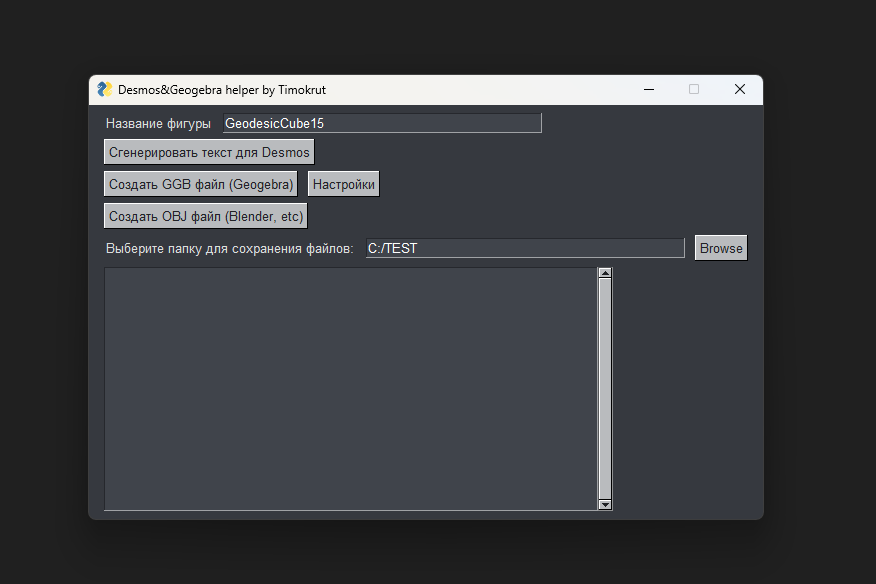
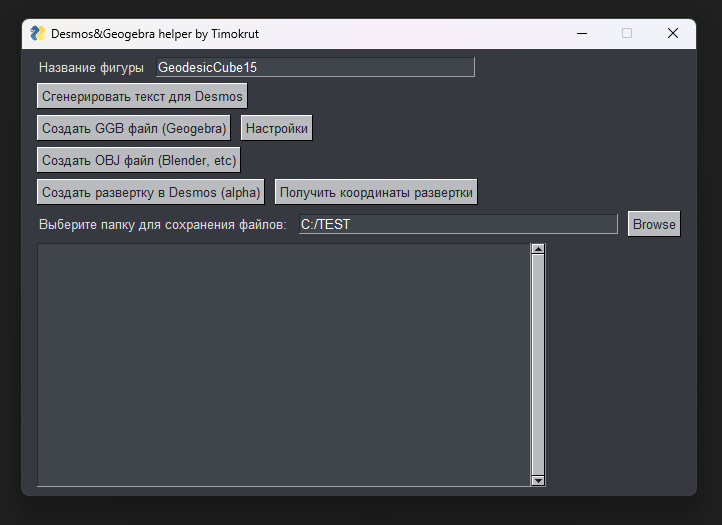
documentation updates

diff --git a/algo_instruction.md b/algo_instruction.md
@@ -1,22 +1,38 @@
-Алгоритм:
+# Алгоритм
+
 Алгоритм работает с гранями многогранника, разбитыми на треугольники. Треугольники описываются вершинами, из которых они состоят. Вершины первой грани многогранника запоминаются.
+
 Взяв за основу первый треугольник из первой грани, на плоскости строятся все остальные вершины. Сначала на плоскости откладывается первый треугольник: первая вершина в начале координат, вторая вершина лежит на оси Y, третья вершина получается решением системы уравнений двух окружностей.
+
 Все остальные вершины получаются через решение системы уравнений.
-![alt text](image.png)
+![alt text](readme_photo/image_copy.png)
+
 Система уравнений окружностей имеет два решения. Выбирается решение, которое прошло все проверки. В случае первой грани выбирается решение с отрицательным знаком
 
 Выбор следующей вершины определяется с помощью нахождения граней, которые отличаются от текущей на одну вершину. 
 На плоскости могут откладыватся несколько точек, которые при склейке образуют одну единственную точку. Чтобы не было отложено лишних точек, существует соответствие отложенной на плоскости точке с гранью, из которой она была отложена (т.е. с одной грани нельзя несколько раз отложить одну и ту же точку).
+
 Также проверяется наличие точки в списке точек (нет дубликатов).
+
 В случае, если система уравнений двух окружностей не имеет решений, функция вычисления решения вернет комплексное число. Они отметаются.
 Предполагается, что точки из первой грани не могут повторятся. Все такие повторения отметаются.
+
 Алгоритм продолжает откладывать точки, пока не пройдет все грани (разбитые на треугольники).
+
 Если нужно добавить точку, которая образуется из вершин, которые повторяются на плоскости, рассматриваются все комбинации повторяющихся точек, пока не найдется первая подходящая.
+
 Результатом алгоритма является списком точек на плоскости.
 
+# Функции
+
 Функция distance вычисляет расстояние между двумя точками.
+
 Функция count_solution решает систему уравнений двух окружностей на плоскости.
+
 Функция find_sim сравнивает две грани, и возвращает число совпадений.
+
 Функция point_max_comp находит похожие грани с исходной (отличаются на одну вершину) и возвращает два списка: в первом списке те вершины, которые нужно отложить; во втором же те вершины, которые надо использовать при откладывании вершин из первого списка.
+
 Функция check_solution проверяет решения.
+
 Основная программа проходит через все грани, используя вышеописанные функции.

diff --git a/README.md b/README.md
@@ -14,15 +14,15 @@
 
 Шаг третий: Выбрать путь для сохранения файлов
 
-Далее есть три варианта:
+Далее есть четыре варианта:
 
 ![alt text](readme_photo/image-2.png)
 
-Первый - Сгенерировать текст для Desmos: 
+**Первый** - Сгенерировать текст для Desmos: 
 1) Открыть https://www.desmos.com/3d
 2) Вставить параметры, которые программа скопировала в буфер (CTRL + V)
 
-Второй - Создать GGB файл (Geogebra)
+**Второй** - Создать GGB файл (Geogebra)
 1) Открыть https://www.geogebra.org/3d
 2) На сайте нажать на иконку меню, а затем нажать на Open и выбрать поиск файла на локальном хранилище
 ![alt text](readme_photo/image-3.png)
@@ -56,9 +56,17 @@ PointSize - настройка величины ребра
 Label - подпись названия точки
 
 
-Третий - Создать OBJ файл
+**Третий** - Создать OBJ файл
 1) В выбранной папке создается еще одна папка с названием obj
 2) В этой папке будет создан файл **название_фигуры**.obj, который можно открыть в любой программе поддерживающей данный тип файла, например Blender
 
 Пример GeodesicCube15 в программе Blender
 ![alt text](readme_photo/image-5.png)
+
+
+**Четвертый** - Создать развертку в Desmos (alpha) | Получить координаты развертки
+1) После нажатия кнопки в браузере откроется страница с разверткой (Desmos API)
+2) При нажатии на получить координаты развертки - в консоль приложения выведется двумерный массив с координатами
+
+Пример для Octahedron:
+![alt text](readme_photo/image-6.png)
